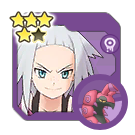
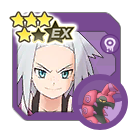
Add v2.33.0

diff --git a/js/syncpairs.js b/js/syncpairs.js
@@ -1321,7 +1321,8 @@ export const SYNCPAIRS = [
 		"pokemonGender": "♂",
 		"pokemonForm": [
 			"Treecko",
-			"Grovyle"
+			"Grovyle",
+			"Mega Evolution"
 		],
 		"pokemonType": "Grass",
 		"pokemonWeak": "Poison",
@@ -2460,7 +2461,8 @@ export const SYNCPAIRS = [
 		"syncPairRegion": "Unova",
 		"images": [
 			"Sync Pairs/0E_UNOVA/0E_UNOVA_0B-09_Roxie.png",
-			"Sync Pairs/5Star/0E_UNOVA_0B-09_Roxie_5Star.png"
+			"Sync Pairs/5Star/0E_UNOVA_0B-09_Roxie_5Star.png",
+			"Sync Pairs/0E_UNOVA/0E_UNOVA_0B-09_Roxie_EX.png"
 		],
 		"themes": [
 			"Poison",
@@ -4320,7 +4322,9 @@ export const SYNCPAIRS = [
 		"tags": [
 			"Gen Pool",
 			"Multiple Units",
-			"isMan"
+			"isMan",
+			"Grid3",
+			"GridExpansion",
 		]
 	},
 	{
@@ -5759,6 +5763,40 @@ export const SYNCPAIRS = [
 		]
 	},
 	{
+		"dexNumber": "091",
+		"trainerName": "Silver",
+		"trainerAlt": "Sygna Suit",
+		"pokemonNumber": "0215",
+		"pokemonName": "Sneasel",
+		"pokemonGender": "♂",
+		"pokemonForm": [],
+		"pokemonType": "Ice",
+		"pokemonWeak": "Fighting",
+		"syncPairRole": "Tech",
+		"syncPairRarity": "5",
+		"releaseDate": "2023-06-17",
+		"syncPairRegion": "Johto",
+		"images": [
+			"Sync Pairs/0B_JOHTO/0B_JOHTO_0A-04_SSSilver.png",
+			"Sync Pairs/0B_JOHTO/0B_JOHTO_0A-04_SSSilver_EX.png"
+		],
+		"themes": [
+			"Ice",
+			"Johto",
+			"Rival",
+			"Sygna Suit",
+			"Battle Partner"
+		],
+		"tags": [
+			"Grid5",
+			"Buddy Move",
+			"Limited Sync Pair Scout",
+			"Poké Fair",
+			"Multiple Units",
+			"isMan"
+		]
+	},
+	{
 		"dexNumber": "092",
 		"trainerName": "Wally",
 		"trainerAlt": "",
@@ -6515,7 +6553,9 @@ export const SYNCPAIRS = [
 			"isMan",
 			"Weather",
 			"Legendary",
-			"Shiny"
+			"Shiny",
+			"Grid5",
+			"GridExpansion",
 		]
 	},
 	{
@@ -7617,7 +7657,9 @@ export const SYNCPAIRS = [
 			"Poké Fair",
 			"Multiple Units",
 			"isWoman",
-			"Starter"
+			"Starter",
+			"Grid5",
+			"GridExpansion",
 		]
 	},
 	{
@@ -10131,6 +10173,143 @@ export const SYNCPAIRS = [
 			"Limited Sync Pair Scout",
 			"Variety"
 		]
+	},
+	{
+		"dexNumber": "166",
+		"trainerName": "Adaman",
+		"trainerAlt": "",
+		"pokemonNumber": "0470",
+		"pokemonName": "Leafeon",
+		"pokemonGender": "♂",
+		"pokemonForm": [],
+		"pokemonType": "Grass",
+		"pokemonWeak": "Flying",
+		"syncPairRole": "Tech",
+		"syncPairRarity": "5",
+		"releaseDate": "2023-05-31",
+		"syncPairRegion": "Sinnoh",
+		"images": [
+			"Sync Pairs/0I_HISUI/0I_HISUI_0B-01_Adaman.png",
+			"Sync Pairs/0I_HISUI/0I_HISUI_0B-01_Adaman_EX.png"
+		],
+		"themes": [
+			"Grass",
+			"Sinnoh",
+			"Nature Lover",
+			"Knowledgeable"
+		],
+		"tags": [
+			"Buddy Move",
+			"Limited Sync Pair Scout",
+			"Master Fair",
+			"Weather",
+			"Multiple Units",
+			"isMan",
+			"Rebuff",
+			"Hisui"
+		]
+	},
+	{
+		"dexNumber": "166",
+		"trainerName": "Adaman",
+		"trainerAlt": "Lodge",
+		"pokemonNumber": "0134",
+		"pokemonName": "Vaporeon",
+		"pokemonGender": "♂",
+		"pokemonForm": [],
+		"pokemonType": "Water",
+		"pokemonWeak": "Electric",
+		"syncPairRole": "Support",
+		"syncPairRarity": "4",
+		"releaseDate": "2023-05-31",
+		"syncPairRegion": "Sinnoh",
+		"images": [
+			"Sync Pairs/0I_HISUI/0I_HISUI_0B-01_TL_Adaman.png",
+			"Sync Pairs/5Star/0I_HISUI_0B-01_TL_Adaman_5Star.png",
+			"Sync Pairs/0I_HISUI/0I_HISUI_0B-01_TL_Adaman_EX.png"
+		],
+		"themes": [
+			"Water",
+			"Sinnoh",
+			"Nature Lover",
+			"Knowledgeable"
+		],
+		"tags": [
+			"Limited Sync Pair Scout",
+			"Trainer Lodge",
+			"Multiple Units",
+			"isMan",
+			"Hisui"
+		]
+	},
+	{
+		"dexNumber": "167",
+		"trainerName": "Irida",
+		"trainerAlt": "",
+		"pokemonNumber": "0471",
+		"pokemonName": "Glaceon",
+		"pokemonGender": "♀",
+		"pokemonForm": [],
+		"pokemonType": "Ice",
+		"pokemonWeak": "Steel",
+		"syncPairRole": "Tech",
+		"syncPairRarity": "5",
+		"releaseDate": "2023-06-02",
+		"syncPairRegion": "Sinnoh",
+		"images": [
+			"Sync Pairs/0I_HISUI/0I_HISUI_0B-02_Irida.png",
+			"Sync Pairs/0I_HISUI/0I_HISUI_0B-02_Irida_EX.png"
+		],
+		"themes": [
+			"Ice",
+			"Sinnoh",
+			"Nature Lover",
+			"Artistic"
+		],
+		"tags": [
+			"Buddy Move",
+			"Limited Sync Pair Scout",
+			"Master Fair",
+			"Weather",
+			"Wish Zone",
+			//"Multiple Units",
+			"isWoman",
+			"Hisui"
+		]
+	},
+	{
+		"dexNumber": "168",
+		"trainerName": "Eusine",
+		"trainerAlt": "",
+		"pokemonNumber": "0245",
+		"pokemonName": "Suicune",
+		"pokemonGender": "",
+		"pokemonForm": [],
+		"pokemonType": "Water",
+		"pokemonWeak": "Electric",
+		"syncPairRole": "Strike",
+		"syncPairRarity": "5",
+		"releaseDate": "2023-06-15",
+		"syncPairRegion": "Johto",
+		"images": [
+			"Sync Pairs/0B_JOHTO/0B_JOHTO_0E-01_Eusine.png",
+			"Sync Pairs/0B_JOHTO/0B_JOHTO_0E-01_Eusine_EX.png"
+		],
+		"themes": [
+			"Water",
+			"Johto",
+			"Cape",
+			"Passionate Spirit"
+		],
+		"tags": [
+			"Legendary",
+			"Shiny",
+			"Grid5",
+			"Buddy Move",
+			"Limited Sync Pair Scout",
+			"Poké Fair",
+			"isMan"
+		]
 	}
 	/*,
 	{
@@ -10192,4 +10371,4 @@ export const SYNCPAIRS = [
 ]
 
 
-export const VERSION = "v2.32.0";
+export const VERSION = "v2.33.0";

diff --git a/index.html b/index.html
@@ -235,6 +235,7 @@
 						<button type="button" class="btn filterRegion" value='"infoSyncPairRegion">Kalos'>Kalos</button>
 						<button type="button" class="btn filterRegion" value='"infoSyncPairRegion">Alola'>Alola</button>
 						<button type="button" class="btn filterRegion" value='"infoSyncPairRegion">Galar'>Galar</button>
+						<button type="button" class="btn" value='Hisui'>Hisui<span class="tooltiptext">This filter is not in the game</span></button>
 						<button type="button" class="btn filterRegion" value='"infoSyncPairRegion">Pasio'>Pasio</button>
 					</div>
 

diff --git a/js/news.js b/js/news.js
@@ -1,5 +1,9 @@
 export const NEWS = [
 	{
+		"date": "2023-05-29",
+		"info" : "Add v2.33.0"
+	},
+	{
 		"date": "2023-05-22",
 		"info" : "Add the possibility to exclude filter"
 	},
